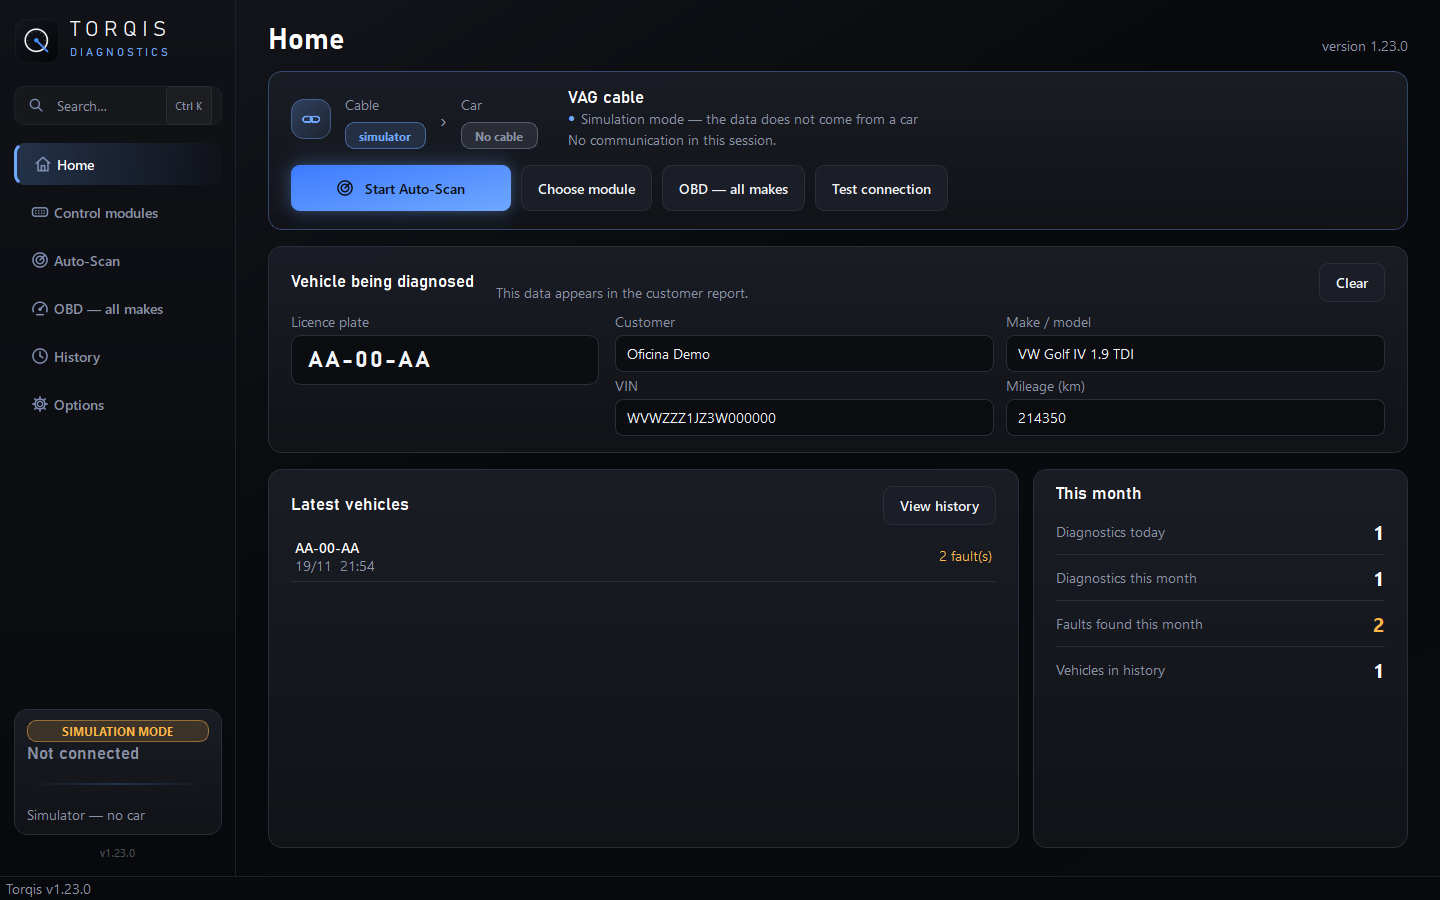
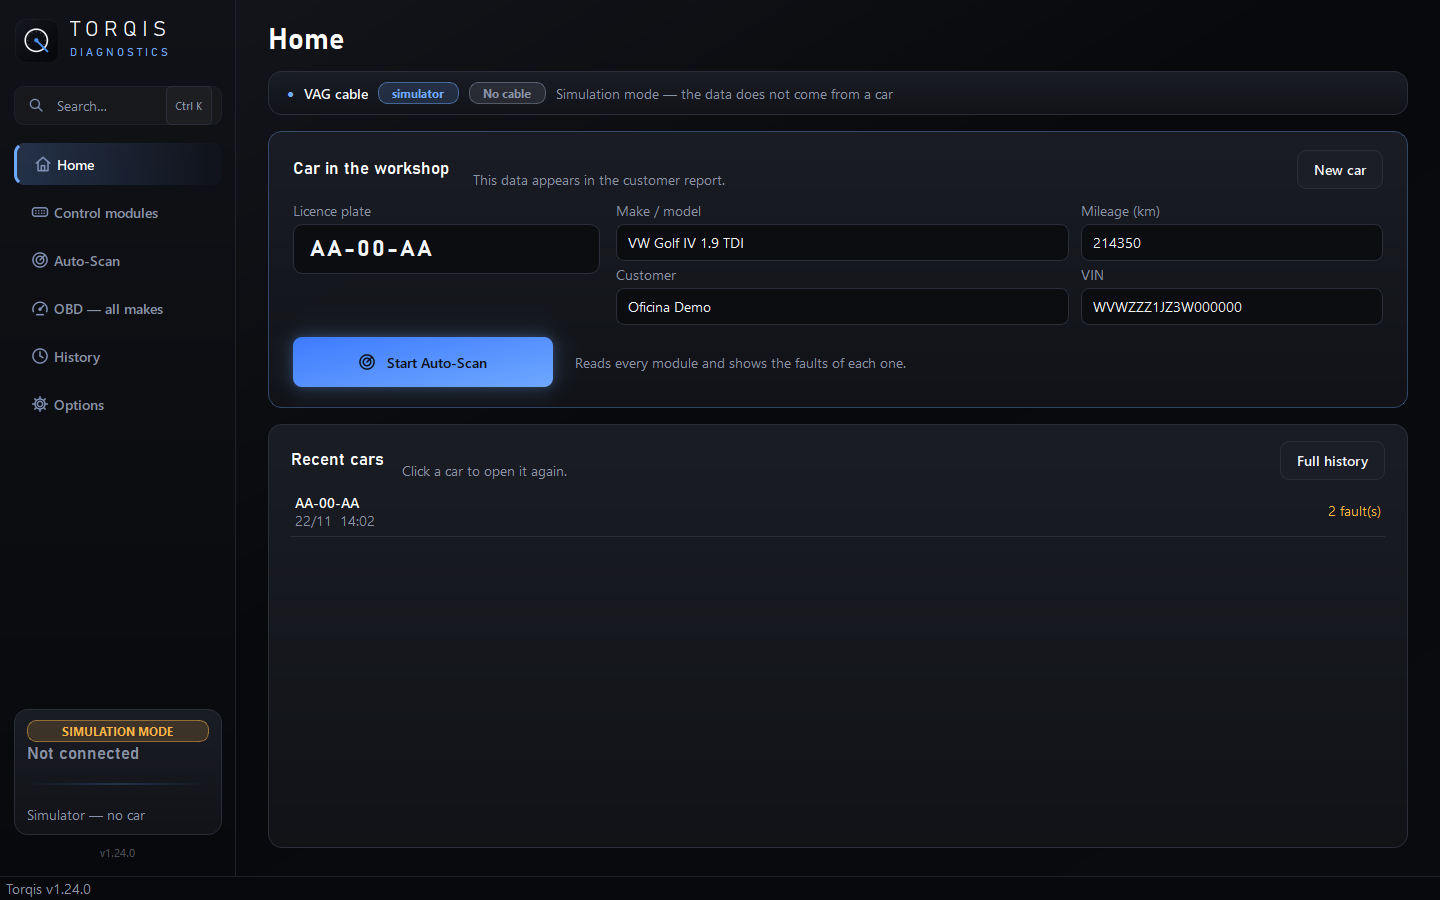
Capturas do design novo (1.24.0)

diff --git a/README.md b/README.md
@@ -42,7 +42,7 @@ Depois de instalado, o Torqis **actualiza-se sozinho**: só são instaladas vers
 
 ## O que faz
 
-- **Auto-Scan com mapa do veículo** — lê todos os controladores e mostra no carro onde estão as avarias
+- **Auto-Scan** — lê todos os controladores e mostra as avarias de cada um, com a mais grave em destaque
 - **Assistente de diagnóstico** — gravidade, causas prováveis e o que verificar em cada avaria
 - **Valores em tempo real** em mostradores e gráficos
 - **Funções de oficina** — ajustes básicos, adaptação, codificação, login, teste de saídas e reposição do indicador

diff --git a/README.en.md b/README.en.md
@@ -40,7 +40,7 @@ Once installed, Torqis **keeps itself up to date**: only versions signed by the 
 
 ## What it does
 
-- **Auto-Scan with a vehicle map** — reads every module and shows on the car where the faults are
+- **Auto-Scan** — reads every module and shows the faults of each one, with the most severe highlighted
 - **Diagnostic assistant** — severity, likely causes and what to check for each fault
 - **Live data** on gauges and charts
 - **Workshop functions** — basic settings, adaptation, coding, login, output tests and service reminder reset, with
